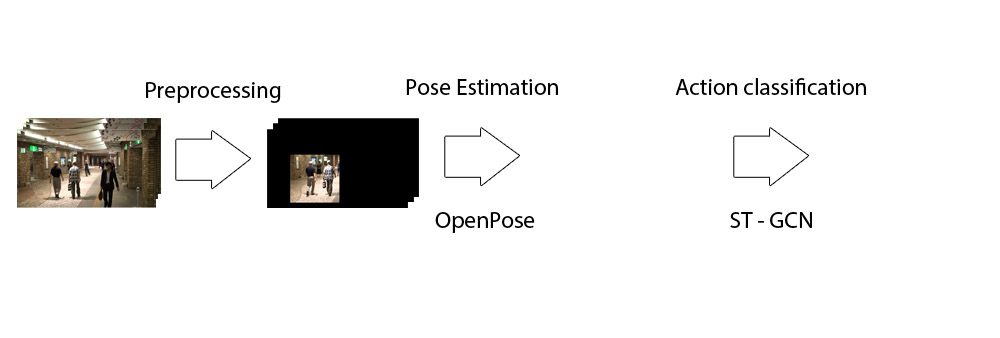
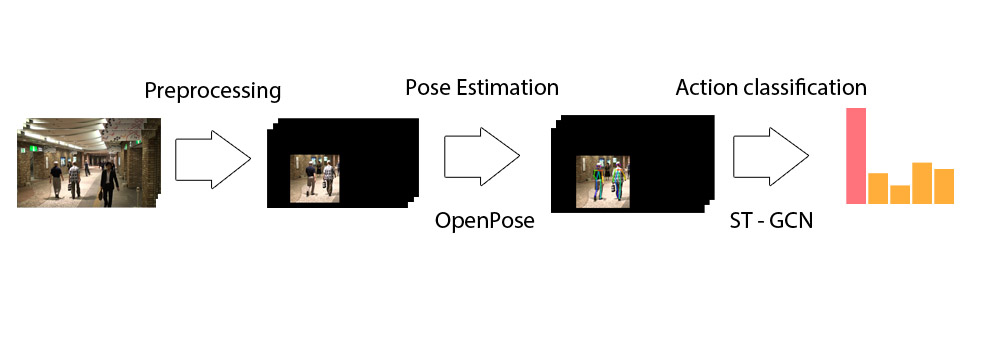
continue report

Changed region(s): [[0.527, 0.3254, 0.713, 0.6509], [0.837, 0.2959, 0.961, 0.6213]]

diff --git a/report/tex_report/report.tex b/report/tex_report/report.tex
@@ -91,20 +91,22 @@ Adrien Gregorj\\
 \subsection{Home structure}
 This internship takes places in an academic context. The home structure is the Graduate School of Natural Science and Technology of Okayama University. In particular the host laboratory is part of the Division of Industrial Innovation Sciences, in the Department of Computer Science.
 
-Okayama University is a well ranked university in Japan located in Okayama Prefecture, in the Chugoku region (westernmost region) of the main island of Honshu. The school was founded in 1870  and welcomes around 14000 students (10000 undergraduates, 3000 postgraduates and 1000 doctoral students). It's motto is \guillemotleft~Creating and fostering higher knowledge and wisdom \guillemotright.
+Okayama University is a well ranked university in Japan located in Okayama Prefecture, in the Chugoku region (westernmost region) of the main island of Honshu. The school was founded in 1870 and welcomes around 14000 students (10000 undergraduates, 3000 postgraduates and 1000 doctoral students). It's motto is \guillemotleft~Creating and fostering higher knowledge and wisdom \guillemotright.
 
 The Graduate School of Natural Science and Technology was originally established in April 1987. It focuses on research in the fundamental sciences such as global climate change, plant photosynthesis or supernova neutrinos and the Division of Industrial Innovation Sciences especially works on applied engineering in the field of computer science, robotic, material sciences and more. 
 
-In the Department of Computer Science, the topics of research are the basic theory and application of information technology, artificial intelligence and computer technology. Examples of research projects includes the development of a visualization tool for a processor or human tracking  algorithm by means of attention control. Dr Akito Monden is the professor of the Theory of Programming and Artificial Intelligence laboratory where this internship takes place and Dr Zeynep Yücel is an assistant professor in the same laboratory. 
+In the Department of Computer Science, the topics of research are the basic theory and application of information technology, artificial intelligence and computer technology. Examples of research projects includes the development of a visualization tool for a processor or human tracking algorithm by means of attention control. Dr Akito Monden is the professor of the Theory of Programming and Artificial Intelligence laboratory where this internship takes place and Dr Zeynep Yücel is the assistant professor in the same laboratory. 
 
 \section{Problematic}
 
 \subsection{State of the existing}
-Dr Zeynep Yücel has been working for a few years on modeling crowd movements \cite{Zanlungo2017}\cite{Yucel2013}\cite{Yucel2017}. The motivation behind constructing such models are numerous: testing architectural designs for an evacuation process, designing accurate crowd models for movies or video games, etc. Japan being very involved in the robotic industries, these projects guidance was to analyse comportements of pairs of pedestrian (we will refer such a group as a dyad in the rest of this report) to potentially develop robots able to walk along side with people in the most natural manner. In order to get real data that could be analysed and from which mathematical models could be derived, cameras and sensors were installed in an underground pedestrian zone. 
+Dr Zeynep Yücel has been working for a few years on modeling crowd movements~\cite{Zanlungo2017}\cite{Yucel2013}\cite{Yucel2017}. The motivation behind constructing such models are numerous: testing architectural designs for an evacuation process, designing accurate crowd models for movies or video games, etc. Japan being very involved in the robotic industries, these projects guidance was to analyse comportements of pairs of pedestrian (we will refer such a group as a dyad in the rest of this report) to potentially develop robots able to walk along side with people in the most natural manner. In order to get real data that could be analysed and from which mathematical models could be derived, cameras and sensors were installed in an underground pedestrian zone. 
 
-Previous work \cite{Yucel2013} has also shown that using trajectory informations, the composition of a group can be accurately determined. Detection of dyads can be performed relying on data from the sensors that represents the trajectories of the pedestrians.
+Previous work (\cite{Yucel2013}) has also shown that using trajectory informations, the composition of a group can be accurately determined. Detection of dyads can be performed relying on data from the sensors that represents the trajectories of the pedestrians.
 
 \subsection{Objectives}
+One of the main challenge behind pedestrian modelling is to take into account the interaction between them. Indeed,~\cite{Yucel2017} as demonstrated that the motion patterns of individual performing gestures (i.e.~touching each others, looking at each other, looking at a common target or speaking together) are significantly different from the ones of not interacting individuals. The data used for this work relied on human annotations of the videos to evaluate the presence or absence of gestures.
+
 The goal of this project is to develop a pipeline to automatize the classification process of the dyads gestures. Instead of relying on human referees to decide wether or not a couple of pedestrians are interacting in a given video, this decision should be made by an algorithm. Indeed, the annotation process is long and tedious and mistakes are often introduced as annotators might spend several hours doing this repetitive and unexciting task.
 
 Given a set of input data (video files and trajectory, this will be described more precisely in~\ref{sec:input}), the algorithm needs to extract portions containing groups of two pedestrians and perform a treatment of the video portion to decide if they are interacting.
@@ -120,7 +122,7 @@ Later on, we wish to be able to classify more precisely the action performed. Fo
 
 \section{Proposed solution}
 
-The current pipeline that we wish to implement is as described in this section. Figure~\ref{fig:pipeline} describes the main steps involved. Globally, the first steps consists of video preprocessing to extract the part of the raw videos that involves dyads passing by and to conserve only the parts where gesture detection make sense (pedestrian walking too far away from the camera are too small to be analysed accurately). This step should provide one short video clip for each dyad. Then pose estimation of the pedestrian can be performed on those preprocessed video clips to extract two skeletons for each frame. Finally, these skeletons can be used as input in Graph Neural Network to perform action classification for the dyads. This section will present in details these steps and the encountered challenges.  
+The current pipeline that we wish to implement is as described in this section. Figure~\ref{fig:pipeline} describes the main steps involved. Globally, the first steps consists of video preprocessing to extract the part of the raw videos that involves dyads passing by and to conserve only the parts where gesture detection makes sense (pedestrian walking too far away from the camera are too small to be analysed accurately). This step should provide one short video clip for each dyad. Then pose estimation of the pedestrian can be performed on those preprocessed video clips to extract two skeletons for each frame. Finally, these skeletons can be used as input in Graph Neural Network to perform action classification for the dyads. This section will present in details these steps and the encountered challenges.  
 
 \begin{figure}
     \centering
@@ -136,7 +138,7 @@ This section describes the initial data that is used along the pipeline.
 
 \begin{description}
     \item[video files:] set of 15 minutes successive video files (\texttt{MTS} format). The camera was set in a underground pedestrian pathway (see figure~\ref{fig:preprocessing} for an example).
-    \item[trajectories:] set of trajectory data file. There is one file for each pedestrian. They were obtained using Laser Range sensors that scanned the pathway to get horizontal data points located approximately around the torso of the pedestrians. Each file consists of a list of x and y coordinates associated with Unix timestamps that corresponds to the date and time the of the position. For each file, its name corresponds to the ID of the pedestrian. This ID are the same as the one used in the annotation file.
+    \item[trajectories:] set of trajectory data file. There is one file for each pedestrian. They were obtained using Laser Range sensors that scanned the pathway to get horizontal data points located approximately around the torso of the pedestrians. Each file consists of a list of x and y coordinates associated with Unix timestamps that corresponds to the date and time for the position. For each file, its name corresponds to the ID of the pedestrian. This ID are the same as the one used in the annotation file.
     \item[annotations:] one csv file that indicates for each pedestrian (using its ID) the interaction it is involved in. This includes the number of person the pedestrian is interacting with (ranging from 0 to 7). The kind of gesture he is performing (none, gazing at someone, touching someone, speaking with someone or gazing at a common target). This annotations were established by human coders and therefore contains potential errors.
 \end{description}
 
@@ -145,9 +147,23 @@ The raw videos from the camera need to be modified in order to be treated. Indee
 
 The first step is to retrieve all the dyads contained in the videos. This is done by using the annotations files and listing all the pedestrian that interacts with one and only one other pedestrian (we do not consider groups larger than two). We can then retrieve the corresponding trajectories using the IDs of the two members of the dyad.
 
-As the trajectory are defined with Unix timestamps, with absolute values, calibration needs to be perform to find the related time in the video that corresponds to a given point. In the first video, the time of the Laser range sensor (which is the one of the trajectory) is shown on a computer screen, which allows to find a reference point. As all videos are directly following one another, but are not exactly the same time, I wrote a script to save the duration of all videos along with their name in a file. This file can be used to find the videos in which a trajectory is actually visible by summing all the duration of the first videos until it is larger than the beginning of the trajectory, thus giving the name of the video in which it appears. The time trajectory can then be expressed relatively to the beginning of the trajectory. 
+As the trajectory are defined with Unix timestamps, with absolute values, calibration needs to be perform to find the related time in the video that corresponds to a given point. In the first video, the time of the Laser range sensor (which is the one of the trajectory) is shown on a computer screen, which allows to find a reference point. As all videos are directly following one another, but are not exactly the same time, I wrote a script to save the duration of all videos along with their name in a file. This file can be used to find the videos in which a trajectory is actually visible by summing all the duration of the first videos until it is larger than the beginning of the trajectory, thus giving the name of the video in which it appears. The time trajectory can then be expressed relatively to the beginning of the video. 
 
-I choose to consider the trajectory of the middle point between the two pedestrian, that can be then used to compute a bounding box that contains both pedestrian. The trajectory of the two people in a dyad do not necessarily starts at the same time as they do not enter the range of the sensors at the same time. Thus, the biggest matching time portion between the two trajectory had to be computed. Then for each two points in this time portion, the middle point was computed.
+I choose to consider the trajectory of the middle point between the two pedestrians, that can then be used to compute a bounding box that contains both pedestrians. The trajectory of the two people in a dyad do not necessarily starts at the same time as they do not enter the range of the sensors at the same time. Thus, the biggest matching time portion between the two trajectory had to be computed. Then for each two points in this time portion, the middle point was computed (see figure~\ref{fig:trajectories}).
+
+\begin{figure}
+    \centering
+    \begin{subfigure}[b]{0.45\textwidth}
+        \includegraphics[width=\textwidth]{images/traj1}
+    \end{subfigure}
+    ~
+    \begin{subfigure}[b]{0.45\textwidth}
+        \includegraphics[width=\textwidth]{images/traj2}
+    \end{subfigure}
+    \caption{Plot of some dyads trajectory in the horizontal 2D plan.}
+    \label{fig:trajectories}
+\end{figure}
+
 
 In order to be able to map the trajectories to the video to find the appropriate portion to extract, the camera calibration matrix needs to be computed. This is done using OpenCV calibration tool box. In the considered case, no calibration rigs were used but the world coordinates of the sensor poles that appears in the images were known and their coordinates in the image referential could be computed. As there is a height difference in the corridor, the sensor closer to the camera are not on the same plan than the furthest one. The OpenCV toolbox does not provide a calibration function that can compute the camera matrix using a set of non planar points (a set of 3D coordinates in the world referential and their 2D matchs in the image referential) unless an input guess is given. For this initial guess I used values previously used for similar works, and the results were satisfying (see figure~\ref{fig:calibration}).
 
@@ -183,7 +199,7 @@ The sensor only provides 2D coordinates corresponding to a point 40 cm high at t
     \caption{Illustration of the various steps of the preprocessing.~\ref{fig:middle_point_traj} shows the middle point mapped back to the video,~\ref{fig:bounding_box} shows the computed bounding box and~\ref{fig:masked} the results of the subtraction using the bounding box as a mask.}\label{fig:preprocessing}
 \end{figure}
 
-The trajectory of one given dyad is generally not entirely interesting. Indeed most of it (and sometimes all of it) takes place too far away from the camera to be able to properly to a pose estimation (see the next subsection); and sometimes the pedestrian are also too close and partially out of frame. Thus a spatial \guillemotleft portion of interest \guillemotright was defined and only the portion of the video that corresponds to the pedestrians walking in this portion was kept.
+The trajectory of one given dyad is generally not entirely interesting. Indeed most of it (and sometimes all of it) takes place too far away from the camera to be able to properly to a pose estimation (see the next subsection); and sometimes the pedestrian are also too close and partially out of frame. Thus a spatial \guillemotleft~portion of interest \guillemotright~was defined and only the portion of the video that corresponds to the pedestrians walking in this portion was kept.
 
 To compute the actual portion of the screen that contains the walking dyad, a bounding box has been mapped from the real world to the image plan, using the camera matrix computed with the calibration. In the world coordinates, the bounding box is 3 meters wide and 2 meters high so that it surround the two pedestrian. The middle of the bounding box corresponds to the middle point trajectory computed previously. This bounding box is then used as a mask using the OpenCV toolbox to subtract all the unnecessary information (see figures~\ref{fig:bounding_box} and~\ref{fig:masked}).
 
@@ -192,9 +208,9 @@ The pose estimation process is run using the OpenPose library which is publicly 
 
 The model is mainly composed of a multi-stage Convolutional Neural Network that evaluates the confidence maps for body parts (18 different joint: right and left elbow, right and left feet, etc.) but also what the authors of the paper call \guillemotleft~part affinity fields \guillemotright~(PAF) which correspond to vectors that encode the direction between the two joints for each pixel on a given limb. Multiple passes allows to iteratively raffine the detection to avoid false detection (right wrist instead of the left one for example). 
 
-A graph can be modeled using the detected body parts as vertices and by scoring the edges using the part affinity fields with the outputs provided by the neural network. The integral of the PAF over the line that join the two parts gives a cost that encode the confidence In order to retrieve actual skeleton from this graph, which is an NP Hard problem, the authors  introduced a greedy algorithm that perform well and rapidly. They actually subdivided the problem to work on smaller bi-partite graphs (considering successively all the joints association: right wrist - right elbow, right foot - right knee, etc.) instead of considering the all the joints at once.
+A graph can be modeled using the detected body parts as vertices and by scoring the edges using the part affinity fields with the outputs provided by the neural network. The integral of the PAF over the line that join the two parts gives a cost that encode the confidence In order to retrieve actual skeletons from this graph, which is an NP Hard problem, the authors  introduced a greedy algorithm that perform well and rapidly. They actually subdivided the problem to work on smaller bi-partite graphs (considering successively all the joints association: right wrist - right elbow, right foot - right knee, etc.) instead of considering all the joints at once.
 
-The toolbox performs well on the preprocessed videos even for the pedestrian walking way from the camera (see~\ref{fig:skeleton}). Moreover it comes with a wide diversity of parameters that allows to store extracted skeletons for examples, as detailed in the following section.
+The toolbox performs well on the preprocessed videos even for the pedestrian walking away from the camera (see~\ref{fig:skeleton}) for whom detecting facial keypoints (nose, eyes and mouth) is impossible. Moreover it comes with a wide diversity of parameters that allows to store extracted skeletons for examples, as detailed in the following section.
 
 \begin{figure}
     \centering
@@ -206,50 +222,49 @@ The toolbox performs well on the preprocessed videos even for the pedestrian wal
 \subsection{Action classification}
 I plan on using machine learning algorithms to classify the video clips. For a start, the classifier should be able to distinguish dyads performing any kind of gestures from dyads not doing anything else than walking. Later the goal will be to be able to get 5 classes corresponding to the 4 gestures and 1 class for the absence of gesture.
 
-A bibliography study pointed me toward \cite{Yan2018} which describes a Graph Convolutional Network to perform action recognition on skeleton pose flows and that proposes publicly available source code on GitHub. The st-gcn repository provides an neural network trained to classify multiple action classes. This section will briefly explain the key concepts of Graph Convolutional Network (GCN) and the specific characteristics of the Spatio-Temporal GCN introduced in \cite{Yan2018}.
+A bibliography study pointed me toward~\cite{Yan2018} which describes a Graph Convolutional Network to perform action recognition on skeleton pose flows and that proposes publicly available source code on GitHub. The st-gcn repository provides an neural network trained to classify multiple action classes. This section will briefly explain the key concepts of Graph Convolutional Network (GCN) and the specific characteristics of the Spatio-Temporal GCN introduced in~\cite{Yan2018}.
 
-The idea behind Graph Convolutional Network is that many datasets are actually ordered as graph or network and that classical neural networks do not provide efficient and well designed way to treat this kind of data. Recent works have introduced models that can deal with graphs. The input of the network is the adjacency matrix of the graph and a convolution operator can be defined as the inner product between a weight function and the input values of particularly sampled nodes. In a classical image convolution, the sampling function gives the squared neighborhood at a given point. In the graph convolution, the set of neighbors up to a certain distance (distance 1 neighbors being one link away from the node, distance 2, two links away, etc.) of a node can be taken. The weight function is generally defined by labeling the neighbors and assigning weights to labels.
+The idea behind Graph Convolutional Network is that many datasets are actually ordered as graphs or networks and that classical neural networks do not provide efficient and well designed way to treat this kind of data. Recent works have introduced models that can deal with graphs. The input of the network is the adjacency matrix of the graph and a convolution operator can be defined as the inner product between a weight function and the input values of particularly sampled nodes. In a classical image convolution, the sampling function gives the squared neighborhood at a given point. In the graph convolution, the set of neighbors up to a certain distance (distance 1 neighbors being one link away from the node, distance 2, two links away, etc.) of a node can be taken. The weight function is generally defined by labeling the neighbors and assigning weights to labels.
  
-In the ST-GCN paper, the graph used can be directly obtained from the inference of the OpenPose algorithm. The spatio-temporal graph is obtained by \guillemotleft stacking \guillemotright together the graph obtained at each frame. That means that each node (that corresponds to a specific joint) is linked to itself in the next and previous frame (see figure~\ref{fig:stgcn_graph}).
+In the ST-GCN paper, the graph used can be directly obtained from the inference of the OpenPose algorithm. The spatio-temporal graph is obtained by \guillemotleft~stacking \guillemotright~together the graph obtained at each frame. That means that each node (that corresponds to a specific joint) is linked to itself in the next and previous frame (see figure~\ref{fig:stgcn_graph}).
 
 \begin{figure}
     \centering
         \includegraphics[width=0.5\textwidth]{images/stgcn_graph}
     \caption{Illustration of the ST-GCN graph, from the original paper.}
-    \label{fig:stgcn_graph}
+\label{fig:stgcn_graph}
 \end{figure}
 
-A spatial convolution is first defined in this project. The sampling function used is the first order distance and divers labeling methods have been examined by the authors to construct the weights function. The one that achieve the best performance is the \guillemotleft Spatial Configuration \guillemotright. For this partition, the center of gravity of the skeleton is evaluated. Then the distance from the neighbor nodes of the kernel root node to the center of gravity is computed. In the case where this distance is shorter than the distance between the root node and the center of gravity (centripetal nodes), one label is given, and if this distance is longer (centrifugal nodes), another one is given (see figure~\ref{fig:partition_strat}).
+A spatial convolution is first defined in this project. The sampling function used is the first order distance and divers labeling methods have been examined by the authors to construct the weights function. The one that achieves the best performance is the \guillemotleft~Spatial Configuration \guillemotright. For this partition, the center of gravity of the skeleton is evaluated. Then the distance from the neighbor nodes of the kernel root node to the center of gravity is computed. In the case where this distance is shorter than the distance between the root node and the center of gravity (centripetal nodes), one label is given, and if this distance is longer (centrifugal nodes), another one is given (see figure~\ref{fig:partition_strat}), resulting in a bipartition of the neighborhood.
 
 \begin{figure}
     \centering
         \includegraphics[width=0.2\textwidth]{images/partition_strat}
     \caption{Illustration of the Spatial Configuration partition, from the original paper.}
-    \label{fig:partition_strat}
+\label{fig:partition_strat}
 \end{figure}
 
-The spatial element is added also taking neighbors in the spatial direction up to a certain time and labeling them according them to the time distance to the frame of the considered node.
+The spatial element is added by also taking neighbors in the spatial direction up to a certain time and labeling them according to the time \guillemotleft~distance \guillemotright~to the frame of the considered node.
 
-The authors provide pretrained model on their github repository. It was trained on Google's Kinetic dataset that contains around 300,000 video clips covering 400 human action classes. They begin by using OpenPose algorithm to extract skeleton from all the raw Youtube video clips that compose the dataset. To do so, they first resized the clips to $340 \times 256$ and $30$ FPS. Then, using the OpenPose toolbox, they extracted two times 18 joints for each frame, represented by $(X,Y,C)$ tuples where $X$ and $Y$ are the 2D coordinates of the joint in the frame and $C$ is the confidence score for the joint. The 36 joints correspond to the two people with maximum average confidence score. Every clip is padded by looping over the sequence to produce 300 frames. This process creates a $(3, 300, 18, 2)$ tensor for each video that serves as input to the neural network. 
+The authors provide pretrained model on their github repository. It was trained on Google's Kinetic dataset that contains around 300,000 video clips covering 400 human action classes. They began by using OpenPose algorithm to extract skeletons from all the raw Youtube video clips that compose the dataset. To do so, they first resized the clips to $340 \times 256$ and $30$ FPS. Then, using the OpenPose toolbox, they extracted two times 18 joints for each frame, represented by $(X,Y,C)$ tuples where $X$ and $Y$ are the 2D coordinates of the joint in the frame and $C$ is the confidence score for the joint. The 36 joints correspond to the two people with maximum average confidence score. Every clip is padded by looping over the sequence to produce 300 frames. This process creates a $(3, 300, 18, 2)$ tensor for each video that serves as input to the neural network. 
 
 OpenPose provides an option to write inferred skeleton to JSON files. This creates one JSON file per frame of the input video containing the coordinates and score of all the detected joints, grouped for each detected person. The toolbox also provides options to limit the number of detected people (keeping only the ones with the biggest average confidence) and to normalize the $(X,Y)$ coordinates between 0 and 1 that is very useful to get normalized data for the network.
 
 The OpenPose output format is different than the one used by ST-GCN where one JSON file correspond to one video clip with all the skeleton detected in each frame begin concatenated in one array. I thus created a Python script to convert OpenPose format into ST-GCN format and was able to test the pretrained model on the skeleton data extracted from the preprocessed videos.
 
-As anticipated, the classification obtained is not satisfactory. Indeed, firstly, the Kinetic dataset classes (that are listed at the end of the paper \cite{Kay2017}) do not fit for this particular classification process. The classes are covering a large set of human action but do not distinguish action performed while walking for example. Moreover, the preprocessed video clips contains big depth variation as the pedestrian are walking toward the camera or away from it. By looking at the way the graph is used in the ST-GCN, we can imagine that it performs better with people performing at a fix distance from the camera and thus keep a similar size in the video 2D plan. 
+As anticipated, the classification obtained is not satisfactory. Indeed, firstly, the Kinetic dataset classes (that are listed at the end of the paper~\cite{Kay2017}) do not fit for this particular classification process. The classes are covering a large set of human actions but do not distinguish different actions performed while walking for example. Moreover, the preprocessed video clips contains big depth variation as the pedestrian are walking toward the camera or away from it. By looking at the way the graph is used in the ST-GCN, we can imagine that it performs better with people acting at a fix distance from the camera and thus keeping a similar size in the video 2D plan. 
 
 For those reason, the nex step will be to try and train a model on the pedestrian video clips using the annotations as ground truth. According to the performance that can be achieved using this newly trained model, it will probably be necessary to adapt the model or the data to compensate the depth change. I plan on trying to normalize the extracted skeleton according to the size of the bounding box. Indeed, this should ensure that size of the skeleton are consistent between the frames.
 
-Another issue that I am experiencing is that sometimes another pedestrian (not part of the dyad) appears in the video and can obstruct the dyad or just get better confidence score and thus provide a skeleton instead of the one that should be provided by members of the dyad. I plan on performing some consistence check to only keep skeleton that can belong to the same person from one frame to another. Computing average distance between the joints of the skeleton in two frames and only keeping the one with the lowest distance could suffice to provide time consistent skeleton, given that the first one taken in account is actually from a pedestrian in the dyad. 
+Another issue that I am experiencing is that sometimes another pedestrian (not part of the dyad) appears in the video and can obstruct the dyad or just get better confidence score and thus provide a bad skeleton instead of the one that should be provided by members of the dyad. I plan on performing some consistence check to only keep skeleton that can belong to the same person from one frame to another. Computing average distance between the joints of the skeleton in two frames and only keeping the one with the lowest distance could suffice to provide time consistent skeletons, given that the first one taken in account is actually from a pedestrian in the dyad. 
 
 \subsection{Evaluation}
 Using the ground truth provided by human referees, diverse evaluation procedure can be derived based on error measures for this classification problem. Popular metrics to evaluate the performance of a classification system exist, such as precision and recall  or plotting receiver operator characteristics curves. The accuracy of the classifier can also represents a simple evaluation metric.
 
-The usual procedure used to evaluate supervised machine learning algorithm consist in splitting the labeled dataset into two datasets. One of them is used for training (of the classifier in our case) and the other one is used to evaluate the performance of the classifier after training. This partition is essential in order to get a meaningful evaluation of the algorithm. Indeed, one of the biggest challenge of machine learning is to make sure that the developed system is able  to \textit{generalize}. This means that the algorithm should achieve good performance on data that it has never seen during the training.
+The usual procedure used to evaluate supervised machine learning algorithm consist in splitting the labeled dataset into two datasets. One of them is used for training (of the classifier in our case) and the other one is used to evaluate the performance of the classifier after training. This partition is essential in order to get a meaningful evaluation of the algorithm. Indeed, one of the biggest challenge of machine learning is to make sure that the developed system is able to \textit{generalize}. This means that the algorithm should achieve good performance on data that it has never seen during the training.
 
 \section{Progress}
-
-This section quickly presents the advancement of the project. The Gantt diagram of figure~\ref{fig:gantt} illustrate the main parts of the project.
+This section quickly presents the advancement of the project. The Gantt diagram of figure~\ref{fig:gantt} illustrates the main parts of the project.
 
 The first few days of the internship consisted in bibliographic studies to explore the potential ways to develop the classifier. 
 
@@ -257,13 +272,13 @@ I then started working on preprocessing the videos to extract the dyads and mini
 
 I could then run OpenPose toolbox on the obtained video clips. 
 
-The last part that I achieved was to convert the OpenPose JSON format to the format used in ST-GCN.
+The last milestone that I achieved was to convert the OpenPose JSON format to the format used in ST-GCN and run the prediction process using the pretrained model.
 
 \begin{figure}
     \centering
         \includegraphics[width=0.2\textwidth]{images/gantt}
     \caption{Provisional schedule showing progress of the project}
-    \label{fig:gantt}
+\label{fig:gantt}
 \end{figure}
 
 \newpage
@@ -271,27 +286,34 @@ The last part that I achieved was to convert the OpenPose JSON format to the for
 \section{Personal feedback}
 
 \subsection{Work environment}
-The first part of the internship consisted mainly of two tasks: bibliography search and data preprocessing. I started by looking for documentation regarding the state of the art of the divers steps of the project (pose estimation, action recognition, and pedestrian models)
-. I find this part of the work extremely rewarding on the scientific level as it allows to discover new algorithms and methods. Even if most of the paper describes solutions that could not be applied on this specific project, I enjoyed reading them.
+The first part of the internship consisted mainly of two tasks: bibliography search and data preprocessing. I started by looking for documentation regarding the state of the art of the divers steps of the project (pose estimation, action recognition, and pedestrian models). I find this part of the work extremely rewarding on the scientific level as it allows to discover new algorithms and methods. Even if most of the paper describe solutions that could not be applied on this specific project, I enjoyed reading them.
 
 On a typical day of work, I arrive at the laboratory at 9:30AM and leave around 17:30PM (working 7.5 hours/day). I am suppose to share the laboratory with another french student, a chinese student and 10 japanese students. The six first weeks of my internship coincided with the end of the school year in Japan, so the laboratory was never actually full and most of the times we were only 4 or 5 working. Dr Akito Monden office is located in the same floor as the students office and Dr Yücel's office is located two floors lower. 
 
 The overall ambience in the laboratory is great and the integration process went very smoothly, probably mainly because we are all students and because of the Japanese helpfulness and kindness. The furniture in the office also reflect this friendly environments, with bookshelves full of manga, coding books and retro console and games. A microwave and a fridge are also available directly in the office room. Once a week we all meet with the professors to eat together.
 
-The project is publicly available on GitHub at \url{https://github.com/Chevrefeuille/walking-gesture-detection}. In a concern of privacy protection and size management, the videos are not reachable.
+The project is publicly available on GitHub at \url{https://github.com/Chevrefeuille/walking-gesture-detection}. In a concern of privacy protection and size management, the videos are not available.
 
 \subsection{Difficulties}
 I relation to the project, the main difficulties that I experienced where linked with environment issues. I started working on my personal Mac Book Pro but many algorithms that I needed to use to test feasibility of considered solutions required an NVidia GPU. Indeed, most machine learning require heavy computation that is generally accelerated on GPU, very often using the CUDA toolkit that integrates well with traditional machine learning libraries such as Torch or Tensorflow. I started preprocessing the video data until I could use the wanted algorithms on a new computer.
 
+\newpage
 
 \section{Societal and environmental impact}
 
 \subsection{Societal impact}
 Considering the broader applications of pedestrian modeling, the possibilities in the field of robotic have in mind to help developing solutions to help smoothen interaction between automaton and human in the context of pedestrian movements. This could be used in a variety of way, such as guide or assistantship for disabled and elderly. 
 
+The privacy aspect of the work can be discussed. Indeed, the videos show thousand of pedestrians that can easily be recognized given the quality of the clips. In a matter of privacy, all images shown in this report have the face blurred. Moreover, the dataset is not available in the public GitHub repository of the project.
+
+
 \subsection{Environmental impact}
 Regarding the environment, the first part of the project was fulfilled on my personal laptop computer. It was mainly used in battery mode, being charged around two hours per day. According to its technical documentation, this represents a power consumption of approximately 300Wh/day. For the 21 weeks of the internship, this correspond to a total consumption of around 30kWh.
 The project will likely only take place in Okayama University laboratories. Except from the round trip from France to Japan, no further travels will be performed. Yet, this represents a substantial carbon footprint of 4t of CO2, almost twice the maximum amount that individuals should not exceed to prevent global warming. In terms of power consumption, this journey corresponds to more than 8000kWh, which is roughly equivalent to using 250 laptops during the duration of the internship. 
+
+Moreover, Okayama being a very flat city, many people (and especially students) use bikes to move around. Likewise, I am using a bike to go to work therefore limiting my environmental impact. 
+
+Japan is very involved in environmental procedure such as sorting of waste. In the laboratory office, we have two thrash can, one for the plastic bottles and another one for the rest of the trash. In the main buildings of the university, they are around 7 different trashes for various kind of waste: burnable, non burnable, cans, etc. 
 
 \bibliography{pfe}{}
 \bibliographystyle{plain}
